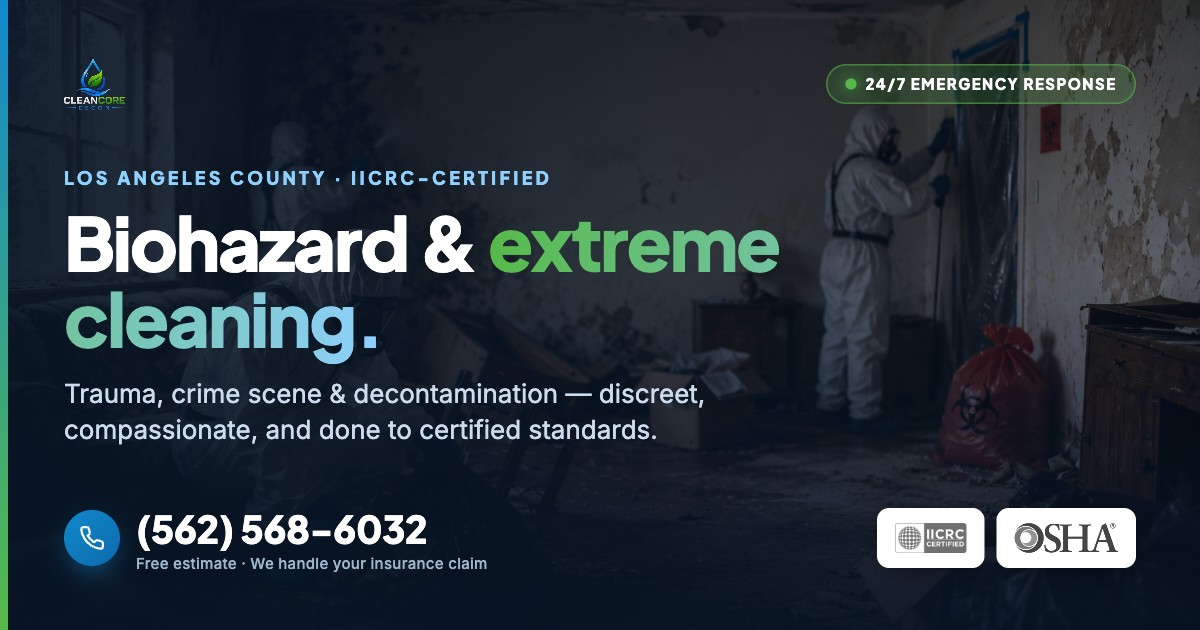
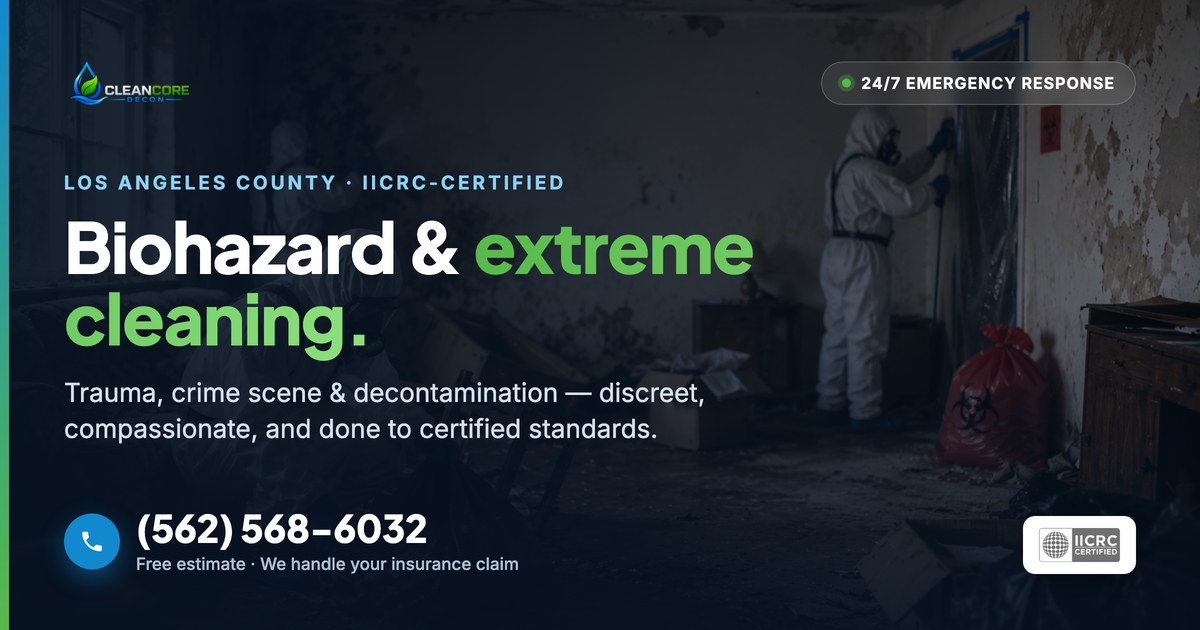
Rebuild OG share card without OSHA badge; add branded OG cards per service

diff --git a/landing-page/biohazard-cleanup.html b/landing-page/biohazard-cleanup.html
@@ -12,14 +12,16 @@
 <meta property="og:locale" content="en_US">
 <meta property="og:title" content="Biohazard Cleanup in Los Angeles · 24/7 · CleanCore Decon">
 <meta property="og:description" content="Certified biohazard cleanup across Los Angeles. Discreet, compassionate, licensed & insured. 24/7 emergency response. We handle your insurance claim.">
-<meta property="og:image" content="https://bio-hazard-extrem-cleaning-company.vercel.app/img/biohazard-after.jpg">
-<meta property="og:image:secure_url" content="https://bio-hazard-extrem-cleaning-company.vercel.app/img/biohazard-after.jpg">
+<meta property="og:image" content="https://bio-hazard-extrem-cleaning-company.vercel.app/img/og-biohazard.jpg">
+<meta property="og:image:secure_url" content="https://bio-hazard-extrem-cleaning-company.vercel.app/img/og-biohazard.jpg">
 <meta property="og:image:type" content="image/jpeg">
+<meta property="og:image:width" content="1200">
+<meta property="og:image:height" content="630">
 <meta property="og:image:alt" content="Biohazard Cleanup in Los Angeles — CleanCore Decon, Los Angeles">
 <meta name="twitter:card" content="summary_large_image">
 <meta name="twitter:title" content="Biohazard Cleanup in Los Angeles · 24/7 · CleanCore Decon">
 <meta name="twitter:description" content="Certified biohazard cleanup across Los Angeles. Discreet, compassionate, licensed & insured. 24/7 emergency response. We handle your insurance claim.">
-<meta name="twitter:image" content="https://bio-hazard-extrem-cleaning-company.vercel.app/img/biohazard-after.jpg">
+<meta name="twitter:image" content="https://bio-hazard-extrem-cleaning-company.vercel.app/img/og-biohazard.jpg">
 <link rel="preconnect" href="https://fonts.googleapis.com"><link rel="preconnect" href="https://fonts.gstatic.com" crossorigin>
 <link href="https://fonts.googleapis.com/css2?family=Plus+Jakarta+Sans:wght@500;600;700;800&family=Inter:wght@400;500;600&display=swap" rel="stylesheet">
 <script src="https://unpkg.com/lucide@latest"></script>

diff --git a/landing-page/blood-cleanup.html b/landing-page/blood-cleanup.html
@@ -12,14 +12,16 @@
 <meta property="og:locale" content="en_US">
 <meta property="og:title" content="Blood Cleanup in Los Angeles · 24/7 · CleanCore Decon">
 <meta property="og:description" content="Discreet, professional blood cleanup across Los Angeles. Licensed, insured & IICRC-certified. 24/7 emergency response. We handle your insurance claim.">
-<meta property="og:image" content="https://bio-hazard-extrem-cleaning-company.vercel.app/img/blood-after.jpg">
-<meta property="og:image:secure_url" content="https://bio-hazard-extrem-cleaning-company.vercel.app/img/blood-after.jpg">
+<meta property="og:image" content="https://bio-hazard-extrem-cleaning-company.vercel.app/img/og-blood.jpg">
+<meta property="og:image:secure_url" content="https://bio-hazard-extrem-cleaning-company.vercel.app/img/og-blood.jpg">
 <meta property="og:image:type" content="image/jpeg">
+<meta property="og:image:width" content="1200">
+<meta property="og:image:height" content="630">
 <meta property="og:image:alt" content="Blood Cleanup in Los Angeles — CleanCore Decon, Los Angeles">
 <meta name="twitter:card" content="summary_large_image">
 <meta name="twitter:title" content="Blood Cleanup in Los Angeles · 24/7 · CleanCore Decon">
 <meta name="twitter:description" content="Discreet, professional blood cleanup across Los Angeles. Licensed, insured & IICRC-certified. 24/7 emergency response. We handle your insurance claim.">
-<meta name="twitter:image" content="https://bio-hazard-extrem-cleaning-company.vercel.app/img/blood-after.jpg">
+<meta name="twitter:image" content="https://bio-hazard-extrem-cleaning-company.vercel.app/img/og-blood.jpg">
 <link rel="preconnect" href="https://fonts.googleapis.com"><link rel="preconnect" href="https://fonts.gstatic.com" crossorigin>
 <link href="https://fonts.googleapis.com/css2?family=Plus+Jakarta+Sans:wght@500;600;700;800&family=Inter:wght@400;500;600&display=swap" rel="stylesheet">
 <script src="https://unpkg.com/lucide@latest"></script>

diff --git a/landing-page/crime-scene-cleanup.html b/landing-page/crime-scene-cleanup.html
@@ -12,14 +12,16 @@
 <meta property="og:locale" content="en_US">
 <meta property="og:title" content="Crime Scene Cleanup in Los Angeles · 24/7 · CleanCore Decon">
 <meta property="og:description" content="Discreet, compassionate crime scene cleanup across Los Angeles. Licensed, insured & IICRC-certified. 24/7 response. We handle your insurance claim.">
-<meta property="og:image" content="https://bio-hazard-extrem-cleaning-company.vercel.app/img/crime-scene-after.jpg">
-<meta property="og:image:secure_url" content="https://bio-hazard-extrem-cleaning-company.vercel.app/img/crime-scene-after.jpg">
+<meta property="og:image" content="https://bio-hazard-extrem-cleaning-company.vercel.app/img/og-crime-scene.jpg">
+<meta property="og:image:secure_url" content="https://bio-hazard-extrem-cleaning-company.vercel.app/img/og-crime-scene.jpg">
 <meta property="og:image:type" content="image/jpeg">
+<meta property="og:image:width" content="1200">
+<meta property="og:image:height" content="630">
 <meta property="og:image:alt" content="Crime Scene Cleanup in Los Angeles — CleanCore Decon, Los Angeles">
 <meta name="twitter:card" content="summary_large_image">
 <meta name="twitter:title" content="Crime Scene Cleanup in Los Angeles · 24/7 · CleanCore Decon">
 <meta name="twitter:description" content="Discreet, compassionate crime scene cleanup across Los Angeles. Licensed, insured & IICRC-certified. 24/7 response. We handle your insurance claim.">
-<meta name="twitter:image" content="https://bio-hazard-extrem-cleaning-company.vercel.app/img/crime-scene-after.jpg">
+<meta name="twitter:image" content="https://bio-hazard-extrem-cleaning-company.vercel.app/img/og-crime-scene.jpg">
 <link rel="preconnect" href="https://fonts.googleapis.com"><link rel="preconnect" href="https://fonts.gstatic.com" crossorigin>
 <link href="https://fonts.googleapis.com/css2?family=Plus+Jakarta+Sans:wght@500;600;700;800&family=Inter:wght@400;500;600&display=swap" rel="stylesheet">
 <script src="https://unpkg.com/lucide@latest"></script>

diff --git a/landing-page/drug-lab-cleanup.html b/landing-page/drug-lab-cleanup.html
@@ -12,14 +12,16 @@
 <meta property="og:locale" content="en_US">
 <meta property="og:title" content="Drug Lab Cleanup in Los Angeles · 24/7 · CleanCore Decon">
 <meta property="og:description" content="Certified meth & drug lab decontamination across Los Angeles. Licensed, insured & IICRC-certified. 24/7. We handle your insurance claim where covered.">
-<meta property="og:image" content="https://bio-hazard-extrem-cleaning-company.vercel.app/img/drug-lab-after.jpg">
-<meta property="og:image:secure_url" content="https://bio-hazard-extrem-cleaning-company.vercel.app/img/drug-lab-after.jpg">
+<meta property="og:image" content="https://bio-hazard-extrem-cleaning-company.vercel.app/img/og-drug-lab.jpg">
+<meta property="og:image:secure_url" content="https://bio-hazard-extrem-cleaning-company.vercel.app/img/og-drug-lab.jpg">
 <meta property="og:image:type" content="image/jpeg">
+<meta property="og:image:width" content="1200">
+<meta property="og:image:height" content="630">
 <meta property="og:image:alt" content="Drug Lab Cleanup in Los Angeles — CleanCore Decon, Los Angeles">
 <meta name="twitter:card" content="summary_large_image">
 <meta name="twitter:title" content="Drug Lab Cleanup in Los Angeles · 24/7 · CleanCore Decon">
 <meta name="twitter:description" content="Certified meth & drug lab decontamination across Los Angeles. Licensed, insured & IICRC-certified. 24/7. We handle your insurance claim where covered.">
-<meta name="twitter:image" content="https://bio-hazard-extrem-cleaning-company.vercel.app/img/drug-lab-after.jpg">
+<meta name="twitter:image" content="https://bio-hazard-extrem-cleaning-company.vercel.app/img/og-drug-lab.jpg">
 <link rel="preconnect" href="https://fonts.googleapis.com"><link rel="preconnect" href="https://fonts.gstatic.com" crossorigin>
 <link href="https://fonts.googleapis.com/css2?family=Plus+Jakarta+Sans:wght@500;600;700;800&family=Inter:wght@400;500;600&display=swap" rel="stylesheet">
 <script src="https://unpkg.com/lucide@latest"></script>

diff --git a/landing-page/fire-damage-restoration.html b/landing-page/fire-damage-restoration.html
@@ -12,14 +12,16 @@
 <meta property="og:locale" content="en_US">
 <meta property="og:title" content="Fire Damage Restoration in Los Angeles · 24/7 · CleanCore Decon">
 <meta property="og:description" content="Fire, soot & smoke damage restoration across Los Angeles. Licensed, insured & IICRC-certified. 24/7 emergency response. We handle your insurance claim.">
-<meta property="og:image" content="https://bio-hazard-extrem-cleaning-company.vercel.app/img/fire-after.jpg">
-<meta property="og:image:secure_url" content="https://bio-hazard-extrem-cleaning-company.vercel.app/img/fire-after.jpg">
+<meta property="og:image" content="https://bio-hazard-extrem-cleaning-company.vercel.app/img/og-fire.jpg">
+<meta property="og:image:secure_url" content="https://bio-hazard-extrem-cleaning-company.vercel.app/img/og-fire.jpg">
 <meta property="og:image:type" content="image/jpeg">
+<meta property="og:image:width" content="1200">
+<meta property="og:image:height" content="630">
 <meta property="og:image:alt" content="Fire Damage Restoration in Los Angeles — CleanCore Decon, Los Angeles">
 <meta name="twitter:card" content="summary_large_image">
 <meta name="twitter:title" content="Fire Damage Restoration in Los Angeles · 24/7 · CleanCore Decon">
 <meta name="twitter:description" content="Fire, soot & smoke damage restoration across Los Angeles. Licensed, insured & IICRC-certified. 24/7 emergency response. We handle your insurance claim.">
-<meta name="twitter:image" content="https://bio-hazard-extrem-cleaning-company.vercel.app/img/fire-after.jpg">
+<meta name="twitter:image" content="https://bio-hazard-extrem-cleaning-company.vercel.app/img/og-fire.jpg">
 <link rel="preconnect" href="https://fonts.googleapis.com"><link rel="preconnect" href="https://fonts.gstatic.com" crossorigin>
 <link href="https://fonts.googleapis.com/css2?family=Plus+Jakarta+Sans:wght@500;600;700;800&family=Inter:wght@400;500;600&display=swap" rel="stylesheet">
 <script src="https://unpkg.com/lucide@latest"></script>

diff --git a/landing-page/hoarder-cleanup.html b/landing-page/hoarder-cleanup.html
@@ -12,14 +12,16 @@
 <meta property="og:locale" content="en_US">
 <meta property="og:title" content="Hoarder Cleanup in Los Angeles · 24/7 · CleanCore Decon">
 <meta property="og:description" content="Judgment-free hoarder cleanup, cleanout & sanitizing across Los Angeles. Licensed, insured & IICRC-certified. 24/7. We handle your insurance claim where covered.">
-<meta property="og:image" content="https://bio-hazard-extrem-cleaning-company.vercel.app/img/hoarder-after.jpg">
-<meta property="og:image:secure_url" content="https://bio-hazard-extrem-cleaning-company.vercel.app/img/hoarder-after.jpg">
+<meta property="og:image" content="https://bio-hazard-extrem-cleaning-company.vercel.app/img/og-hoarder.jpg">
+<meta property="og:image:secure_url" content="https://bio-hazard-extrem-cleaning-company.vercel.app/img/og-hoarder.jpg">
 <meta property="og:image:type" content="image/jpeg">
+<meta property="og:image:width" content="1200">
+<meta property="og:image:height" content="630">
 <meta property="og:image:alt" content="Hoarder Cleanup in Los Angeles — CleanCore Decon, Los Angeles">
 <meta name="twitter:card" content="summary_large_image">
 <meta name="twitter:title" content="Hoarder Cleanup in Los Angeles · 24/7 · CleanCore Decon">
 <meta name="twitter:description" content="Judgment-free hoarder cleanup, cleanout & sanitizing across Los Angeles. Licensed, insured & IICRC-certified. 24/7. We handle your insurance claim where covered.">
-<meta name="twitter:image" content="https://bio-hazard-extrem-cleaning-company.vercel.app/img/hoarder-after.jpg">
+<meta name="twitter:image" content="https://bio-hazard-extrem-cleaning-company.vercel.app/img/og-hoarder.jpg">
 <link rel="preconnect" href="https://fonts.googleapis.com"><link rel="preconnect" href="https://fonts.gstatic.com" crossorigin>
 <link href="https://fonts.googleapis.com/css2?family=Plus+Jakarta+Sans:wght@500;600;700;800&family=Inter:wght@400;500;600&display=swap" rel="stylesheet">
 <script src="https://unpkg.com/lucide@latest"></script>

diff --git a/landing-page/mold-remediation.html b/landing-page/mold-remediation.html
@@ -12,14 +12,16 @@
 <meta property="og:locale" content="en_US">
 <meta property="og:title" content="Mold Remediation in Los Angeles · 24/7 · CleanCore Decon">
 <meta property="og:description" content="Mold inspection, containment & safe removal across Los Angeles. Licensed, insured & IICRC-certified. 24/7. We handle your insurance claim.">
-<meta property="og:image" content="https://bio-hazard-extrem-cleaning-company.vercel.app/img/mold-after.jpg">
-<meta property="og:image:secure_url" content="https://bio-hazard-extrem-cleaning-company.vercel.app/img/mold-after.jpg">
+<meta property="og:image" content="https://bio-hazard-extrem-cleaning-company.vercel.app/img/og-mold.jpg">
+<meta property="og:image:secure_url" content="https://bio-hazard-extrem-cleaning-company.vercel.app/img/og-mold.jpg">
 <meta property="og:image:type" content="image/jpeg">
+<meta property="og:image:width" content="1200">
+<meta property="og:image:height" content="630">
 <meta property="og:image:alt" content="Mold Remediation in Los Angeles — CleanCore Decon, Los Angeles">
 <meta name="twitter:card" content="summary_large_image">
 <meta name="twitter:title" content="Mold Remediation in Los Angeles · 24/7 · CleanCore Decon">
 <meta name="twitter:description" content="Mold inspection, containment & safe removal across Los Angeles. Licensed, insured & IICRC-certified. 24/7. We handle your insurance claim.">
-<meta name="twitter:image" content="https://bio-hazard-extrem-cleaning-company.vercel.app/img/mold-after.jpg">
+<meta name="twitter:image" content="https://bio-hazard-extrem-cleaning-company.vercel.app/img/og-mold.jpg">
 <link rel="preconnect" href="https://fonts.googleapis.com"><link rel="preconnect" href="https://fonts.gstatic.com" crossorigin>
 <link href="https://fonts.googleapis.com/css2?family=Plus+Jakarta+Sans:wght@500;600;700;800&family=Inter:wght@400;500;600&display=swap" rel="stylesheet">
 <script src="https://unpkg.com/lucide@latest"></script>

diff --git a/landing-page/odor-removal.html b/landing-page/odor-removal.html
@@ -12,14 +12,16 @@
 <meta property="og:locale" content="en_US">
 <meta property="og:title" content="Odor Removal in Los Angeles · 24/7 · CleanCore Decon">
 <meta property="og:description" content="Molecular-level odor removal across Los Angeles, not masking. Licensed, insured & IICRC-certified. 24/7. We handle your insurance claim where covered.">
-<meta property="og:image" content="https://bio-hazard-extrem-cleaning-company.vercel.app/img/odor-after.jpg">
-<meta property="og:image:secure_url" content="https://bio-hazard-extrem-cleaning-company.vercel.app/img/odor-after.jpg">
+<meta property="og:image" content="https://bio-hazard-extrem-cleaning-company.vercel.app/img/og-odor.jpg">
+<meta property="og:image:secure_url" content="https://bio-hazard-extrem-cleaning-company.vercel.app/img/og-odor.jpg">
 <meta property="og:image:type" content="image/jpeg">
+<meta property="og:image:width" content="1200">
+<meta property="og:image:height" content="630">
 <meta property="og:image:alt" content="Odor Removal in Los Angeles — CleanCore Decon, Los Angeles">
 <meta name="twitter:card" content="summary_large_image">
 <meta name="twitter:title" content="Odor Removal in Los Angeles · 24/7 · CleanCore Decon">
 <meta name="twitter:description" content="Molecular-level odor removal across Los Angeles, not masking. Licensed, insured & IICRC-certified. 24/7. We handle your insurance claim where covered.">
-<meta name="twitter:image" content="https://bio-hazard-extrem-cleaning-company.vercel.app/img/odor-after.jpg">
+<meta name="twitter:image" content="https://bio-hazard-extrem-cleaning-company.vercel.app/img/og-odor.jpg">
 <link rel="preconnect" href="https://fonts.googleapis.com"><link rel="preconnect" href="https://fonts.gstatic.com" crossorigin>
 <link href="https://fonts.googleapis.com/css2?family=Plus+Jakarta+Sans:wght@500;600;700;800&family=Inter:wght@400;500;600&display=swap" rel="stylesheet">
 <script src="https://unpkg.com/lucide@latest"></script>

diff --git a/landing-page/rodent-biohazard-cleanup.html b/landing-page/rodent-biohazard-cleanup.html
@@ -12,14 +12,16 @@
 <meta property="og:locale" content="en_US">
 <meta property="og:title" content="Rodent Biohazard Cleanup in Los Angeles · 24/7 · CleanCore Decon">
 <meta property="og:description" content="Safe rodent droppings & contamination cleanup across Los Angeles. Licensed, insured & IICRC-certified. 24/7. We handle your insurance claim where covered.">
-<meta property="og:image" content="https://bio-hazard-extrem-cleaning-company.vercel.app/img/rodent-after.jpg">
-<meta property="og:image:secure_url" content="https://bio-hazard-extrem-cleaning-company.vercel.app/img/rodent-after.jpg">
+<meta property="og:image" content="https://bio-hazard-extrem-cleaning-company.vercel.app/img/og-rodent.jpg">
+<meta property="og:image:secure_url" content="https://bio-hazard-extrem-cleaning-company.vercel.app/img/og-rodent.jpg">
 <meta property="og:image:type" content="image/jpeg">
+<meta property="og:image:width" content="1200">
+<meta property="og:image:height" content="630">
 <meta property="og:image:alt" content="Rodent Biohazard Cleanup in Los Angeles — CleanCore Decon, Los Angeles">
 <meta name="twitter:card" content="summary_large_image">
 <meta name="twitter:title" content="Rodent Biohazard Cleanup in Los Angeles · 24/7 · CleanCore Decon">
 <meta name="twitter:description" content="Safe rodent droppings & contamination cleanup across Los Angeles. Licensed, insured & IICRC-certified. 24/7. We handle your insurance claim where covered.">
-<meta name="twitter:image" content="https://bio-hazard-extrem-cleaning-company.vercel.app/img/rodent-after.jpg">
+<meta name="twitter:image" content="https://bio-hazard-extrem-cleaning-company.vercel.app/img/og-rodent.jpg">
 <link rel="preconnect" href="https://fonts.googleapis.com"><link rel="preconnect" href="https://fonts.gstatic.com" crossorigin>
 <link href="https://fonts.googleapis.com/css2?family=Plus+Jakarta+Sans:wght@500;600;700;800&family=Inter:wght@400;500;600&display=swap" rel="stylesheet">
 <script src="https://unpkg.com/lucide@latest">  // why showcase — before/after slider

diff --git a/landing-page/suicide-cleanup.html b/landing-page/suicide-cleanup.html
@@ -12,14 +12,16 @@
 <meta property="og:locale" content="en_US">
 <meta property="og:title" content="Suicide Cleanup in Los Angeles · 24/7 · CleanCore Decon">
 <meta property="og:description" content="Respectful, discreet suicide cleanup across Los Angeles, handled with dignity. Licensed, insured & IICRC-certified. 24/7. We handle your insurance claim.">
-<meta property="og:image" content="https://bio-hazard-extrem-cleaning-company.vercel.app/img/suicide-after.jpg">
-<meta property="og:image:secure_url" content="https://bio-hazard-extrem-cleaning-company.vercel.app/img/suicide-after.jpg">
+<meta property="og:image" content="https://bio-hazard-extrem-cleaning-company.vercel.app/img/og-suicide.jpg">
+<meta property="og:image:secure_url" content="https://bio-hazard-extrem-cleaning-company.vercel.app/img/og-suicide.jpg">
 <meta property="og:image:type" content="image/jpeg">
+<meta property="og:image:width" content="1200">
+<meta property="og:image:height" content="630">
 <meta property="og:image:alt" content="Suicide Cleanup in Los Angeles — CleanCore Decon, Los Angeles">
 <meta name="twitter:card" content="summary_large_image">
 <meta name="twitter:title" content="Suicide Cleanup in Los Angeles · 24/7 · CleanCore Decon">
 <meta name="twitter:description" content="Respectful, discreet suicide cleanup across Los Angeles, handled with dignity. Licensed, insured & IICRC-certified. 24/7. We handle your insurance claim.">
-<meta name="twitter:image" content="https://bio-hazard-extrem-cleaning-company.vercel.app/img/suicide-after.jpg">
+<meta name="twitter:image" content="https://bio-hazard-extrem-cleaning-company.vercel.app/img/og-suicide.jpg">
 <link rel="preconnect" href="https://fonts.googleapis.com"><link rel="preconnect" href="https://fonts.gstatic.com" crossorigin>
 <link href="https://fonts.googleapis.com/css2?family=Plus+Jakarta+Sans:wght@500;600;700;800&family=Inter:wght@400;500;600&display=swap" rel="stylesheet">
 <script src="https://unpkg.com/lucide@latest"></script>

diff --git a/landing-page/unattended-death-cleanup.html b/landing-page/unattended-death-cleanup.html
@@ -12,14 +12,16 @@
 <meta property="og:locale" content="en_US">
 <meta property="og:title" content="Unattended Death Cleanup in Los Angeles · 24/7 · CleanCore Decon">
 <meta property="og:description" content="Compassionate unattended death & decomposition cleanup across Los Angeles. Licensed, insured & IICRC-certified. 24/7. We handle your insurance claim.">
-<meta property="og:image" content="https://bio-hazard-extrem-cleaning-company.vercel.app/img/unattended-death-after.jpg">
-<meta property="og:image:secure_url" content="https://bio-hazard-extrem-cleaning-company.vercel.app/img/unattended-death-after.jpg">
+<meta property="og:image" content="https://bio-hazard-extrem-cleaning-company.vercel.app/img/og-unattended-death.jpg">
+<meta property="og:image:secure_url" content="https://bio-hazard-extrem-cleaning-company.vercel.app/img/og-unattended-death.jpg">
 <meta property="og:image:type" content="image/jpeg">
+<meta property="og:image:width" content="1200">
+<meta property="og:image:height" content="630">
 <meta property="og:image:alt" content="Unattended Death Cleanup in Los Angeles — CleanCore Decon, Los Angeles">
 <meta name="twitter:card" content="summary_large_image">
 <meta name="twitter:title" content="Unattended Death Cleanup in Los Angeles · 24/7 · CleanCore Decon">
 <meta name="twitter:description" content="Compassionate unattended death & decomposition cleanup across Los Angeles. Licensed, insured & IICRC-certified. 24/7. We handle your insurance claim.">
-<meta name="twitter:image" content="https://bio-hazard-extrem-cleaning-company.vercel.app/img/unattended-death-after.jpg">
+<meta name="twitter:image" content="https://bio-hazard-extrem-cleaning-company.vercel.app/img/og-unattended-death.jpg">
 <link rel="preconnect" href="https://fonts.googleapis.com"><link rel="preconnect" href="https://fonts.gstatic.com" crossorigin>
 <link href="https://fonts.googleapis.com/css2?family=Plus+Jakarta+Sans:wght@500;600;700;800&family=Inter:wght@400;500;600&display=swap" rel="stylesheet">
 <script src="https://unpkg.com/lucide@latest"></script>